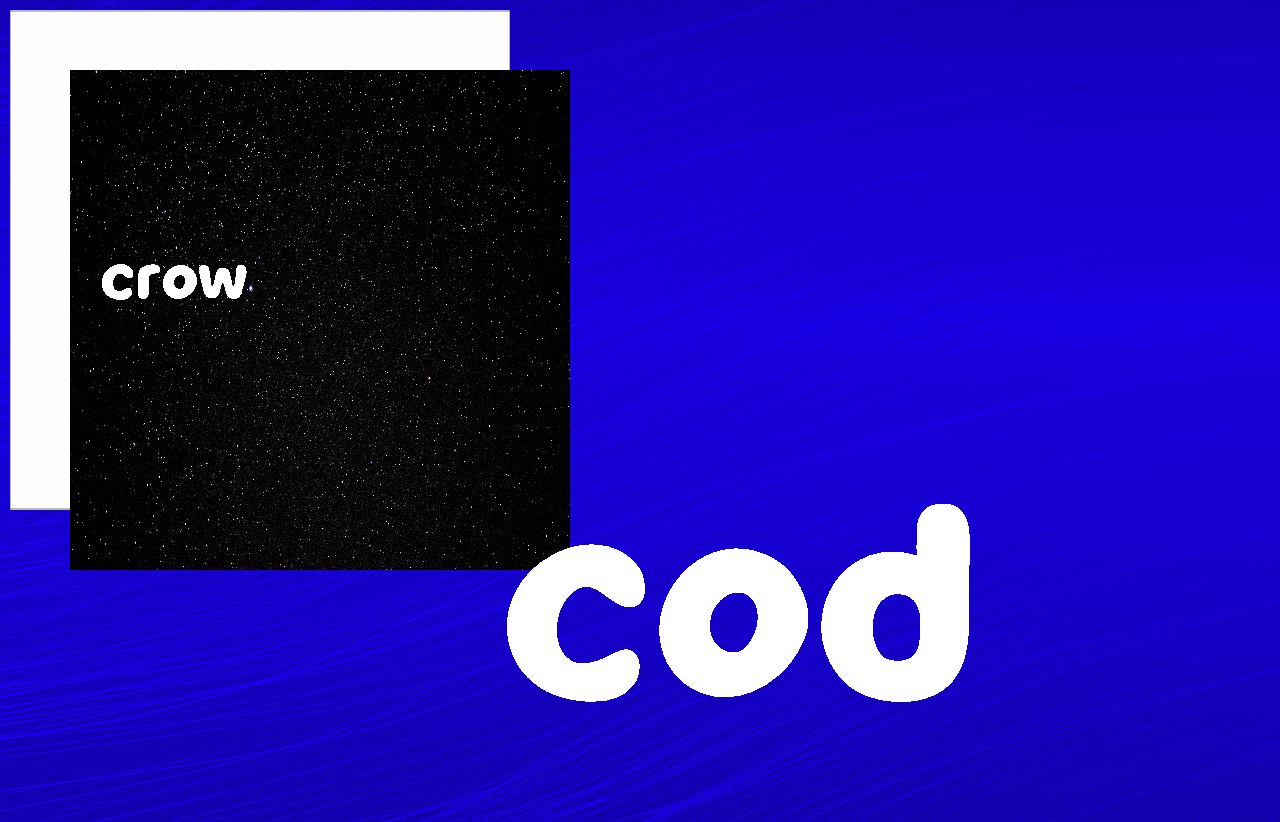
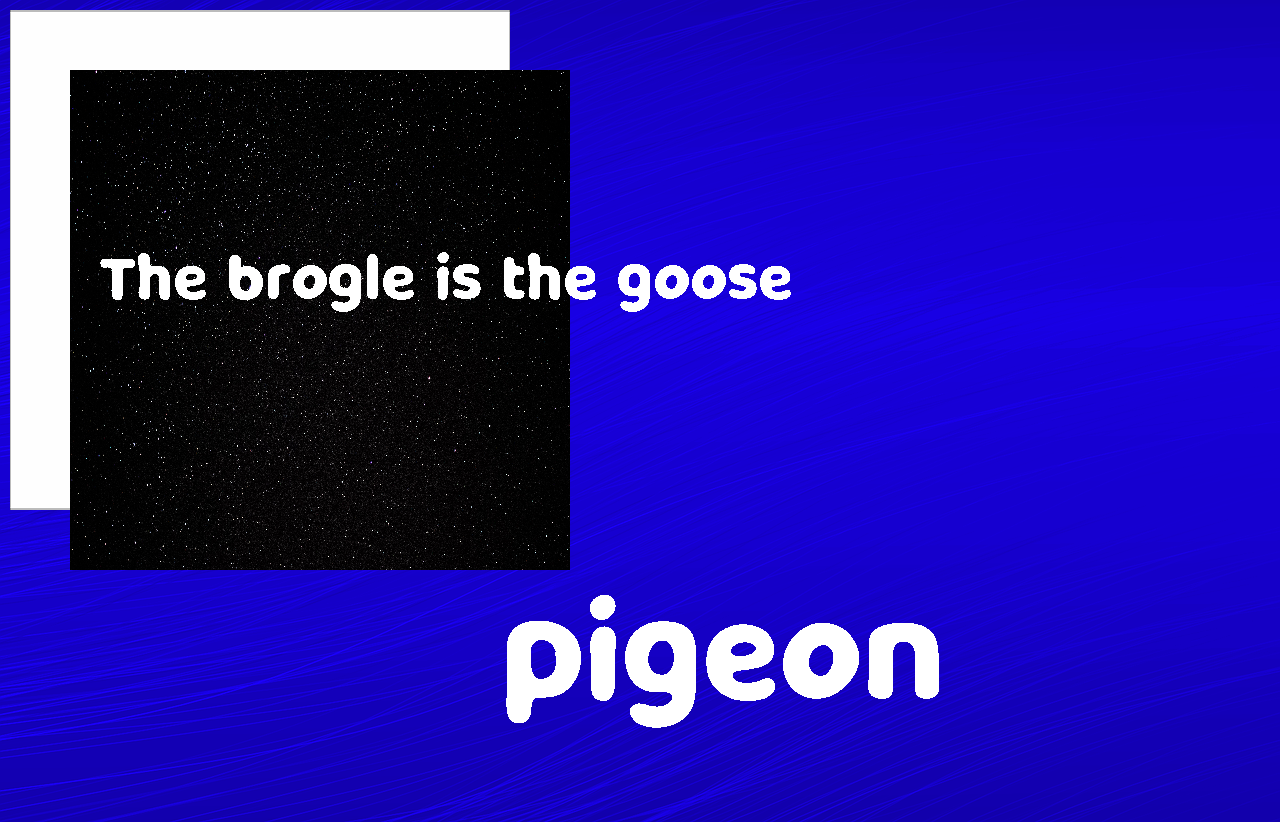
Added SentenceCreator

Changed region(s): [[0.375, 0.6083, 0.7812, 0.882], [0.0625, 0.3041, 0.625, 0.3954]]

diff --git a/src/TextIO/TextParser.java b/src/TextIO/TextParser.java
@@ -1,8 +1,10 @@
 package TextIO;
 
-import java.awt.*;
+import TextIO.TextClasses.*;
 import java.io.BufferedReader;
+import java.io.FileNotFoundException;
 import java.io.FileReader;
+import java.io.IOException;
 import java.util.ArrayList;
 import java.util.Arrays;
 import java.util.List;
@@ -13,23 +15,22 @@ import java.util.Random;
  * Returns a random word that is found in the dictionary
  */
 public class TextParser {
-    final String[] availableTypes = {"Nouns", "Verbs"};
+    final String[] availableTypes = {"Nouns", "Verbs", "Adjectives", "Conjunctions", "LinkingVerbs"};
+    BufferedReader bReader;
 
     /**
-     * Takes in a TextClass and Type
+     * Takes in a String and Type
      * Returns a random word that is found in the dictionary
      * @param textClass The class of an object, e.g. Furniture, Animal, Metal, etc. If none, use .None
      * @param type The type of the word, i.e. Noun, Verb or Name
      * @return Returns a String that is a random word
      */
-    public String RandomWord(TextClasses textClass, String type) {
+    public String RandomWord(String textClass, String type) {
         String randWord = "void";
 
-        // Check if there is a specified textClass
-        if(textClass == TextClasses.None) textClass = TextClasses.values()[new Random().nextInt(TextClasses.values().length - 1)];
+        if(textClass.equals("None")) textClass = RandomTextClass(type);
 
         try {
-
             // Get a list of the parse dictionary words
             List<String> lValues = ParseText(textClass, type);
             randWord = lValues.get(new Random().nextInt(lValues.size()));
@@ -48,18 +49,44 @@ public class TextParser {
      * @return Returns an filtered ArrayList of Strings containing all the words in the [type].list
      * @throws Exception Throws and Error if the provided type does not exist
      */
-    private List<String> ParseText(TextClasses textClass, String type) throws Exception {
+    private List<String> ParseText(String textClass, String type) throws Exception {
         if(!Arrays.asList(availableTypes).contains(type)) throw new IllegalArgumentException("String type is not legal : Must be [Nouns], [Verbs] or [Name]");
 
         // Initialize Variables
         List<String> content = new ArrayList<String>();
         List<String> fContent = new ArrayList<String>();
-        BufferedReader bReader = new BufferedReader(new FileReader("Resources/Text/" + type + ".list"));
+        bReader = new BufferedReader(new FileReader("Resources/Text/" + type + ".list"));
         String line;
 
         // Iterates through each line, filters the one matching the textClass and returns it
         while((line = bReader.readLine()) != null && fContent.size() == 0)
-            if(line.startsWith(textClass.toString())) fContent = Arrays.asList(line.split(textClass + ":: ")[1].split(","));
+            if(line.startsWith(textClass)) fContent = Arrays.asList(line.split(textClass + ":: ")[1].split(","));
         return fContent;
+    }
+
+    /**
+     * Takes in a String
+     * Create a new ArrayList and initializes the BufferedReader
+     * Uses the BufferedReader to append all the TextClasses to the ArrayList
+     * @param filetype The type of file to search
+     * @return Returns a String that is one of the textClasses in the filetype
+     */
+    private String RandomTextClass(String filetype) {
+        ArrayList<String> textClasses = new ArrayList<>();
+
+        try {
+            bReader = new BufferedReader(new FileReader("Resources/Text/" + filetype + ".list"));
+            String line;
+
+            // Iterates through each line of the file and adds the split lines;
+            while((line = bReader.readLine()) != null) {
+                textClasses.add(line.split(":: ")[0]);
+            }
+        } catch (IOException e) {
+            e.printStackTrace();
+        }
+
+        // Returns a random TextClass
+        return textClasses.get((int) (Math.random() * textClasses.size() - 1));
     }
 }

diff --git a/src/TextIO/SentenceCreator.java b/src/TextIO/SentenceCreator.java
@@ -1,0 +1,68 @@
+package TextIO;
+
+import java.io.BufferedReader;
+import java.io.FileReader;
+import java.io.IOException;
+import java.util.ArrayList;
+import java.util.Arrays;
+import java.util.List;
+
+/**
+ * The SentenceCreator class creates sentences based on a SentenceStructure
+ * The sentences are generated word by words, each being either part of a textClass or random
+ */
+public class SentenceCreator {
+    BufferedReader bReader;
+
+    /**
+     * Create a sentence
+     * Gets a random SentenceStructure from the list
+     * Appends an appropriate word to the sentence
+     * @return Returns a String that is the sentence
+     */
+    public String CreateSentence() {
+        TextParser tParser = new TextParser();
+        StringBuilder sentence = new StringBuilder();
+
+        try {
+
+            // Get a random SentenceStructure
+            String[] wordStruct = GetRandomSentenceStructure();
+
+            // Iterates through each of the structs
+            for(String word : wordStruct) {
+                if(word.startsWith("<W>:")) {
+                    sentence.append(word.split(":")[1]);
+                } else if(word.contains("::")) {
+                    sentence.append(tParser.RandomWord(word.split("::")[1], word.split("::")[0]));
+                } else {
+                    sentence.append(tParser.RandomWord("None", word));
+                }
+                sentence.append(" ");
+            }
+        } catch (IOException e) {
+            e.printStackTrace();
+        }
+        return sentence.toString();
+    }
+
+    /**
+     * Gets a random SentenceStructure
+     * Creates a BufferedReader and uses it to get a random structure from the list
+     * @return Returns a String that is the SentenceStructure
+     * @throws IOException If an error occurs during the file parsing, it will be thrown
+     */
+    public String[] GetRandomSentenceStructure() throws IOException {
+        ArrayList<String> wordStruct = new ArrayList<>();
+        bReader = new BufferedReader(new FileReader("Resources/Text/SentenceStructure.list"));
+        String line;
+
+        // Iterate through the file
+        while((line = bReader.readLine()) != null) {
+            wordStruct.add(line);
+        }
+
+        // Return a random SentenceStructure from the ArrayList
+        return wordStruct.get((int) (Math.random() * wordStruct.size() - 1)).split(", ");
+    }
+}

diff --git a/src/Main/Generator.java b/src/Main/Generator.java
@@ -1,7 +1,7 @@
 package Main;
 
 import ResourceIO.*;
-import TextIO.TextClasses;
+import TextIO.SentenceCreator;
 import TextIO.TextParser;
 import Util.Tuple;
 import java.awt.image.BufferedImage;
@@ -12,13 +12,15 @@ public class Generator {
         BufferedImage bg = imgLoad.LoadImage("t5.jpg");
         ImageEditor imgEdit = new ImageEditor(bg);
         TextParser tParser = new TextParser();
+        SentenceCreator sCreate = new SentenceCreator();
 
         try {
             imgEdit.AddImage(imgLoad.LoadImage("t2.jpg"), new Tuple<Integer, Integer>(500, 500), new Tuple<Integer, Integer>(10, 10));
-            //imgEdit.AddImage(imgLoad.LoadImage("t6.jpg"), new Tuple<Integer, Integer>(500, 500), new Tuple<Integer, Integer>(70, 70));
-            //imgEdit.AddText(bg, tParser.RandomWord(TextClasses.None, "Nouns"), new Tuple<String, Float>("mn.ttf", 60f), new Tuple<Integer, Integer>(100, 300));
-            //imgEdit.AddText(bg, tParser.RandomWord(TextClasses.None, "Nouns"), new Tuple<String, Float>("mn.ttf", 1000f), new Tuple<Integer, Integer>(500, 700));
+            imgEdit.AddImage(imgLoad.LoadImage("t6.jpg"), new Tuple<Integer, Integer>(500, 500), new Tuple<Integer, Integer>(70, 70));
+            imgEdit.AddText(bg, sCreate.CreateSentence(), new Tuple<String, Float>("mn.ttf", 60f), new Tuple<Integer, Integer>(100, 300));
+            imgEdit.AddText(bg, tParser.RandomWord("None", "Nouns"), new Tuple<String, Float>("mn.ttf", 1000f), new Tuple<Integer, Integer>(500, 700));
             imgLoad.SaveImage("Export.png", bg);
+
         } catch (Exception e) {
             e.printStackTrace();
         }

diff --git a/src/TextIO/TextClasses/NounClasses.java b/src/TextIO/TextClasses/NounClasses.java
@@ -1,0 +1,18 @@
+package TextIO.TextClasses;
+
+public enum NounClasses {
+    //Nouns
+    Bird,
+    Crustacean,
+    Carnivorous,
+    Fish,
+    Insect,
+    Moneky,
+    Snake,
+    None
+
+    //Verbs
+    //Adjectives
+    //Conjunctions
+    //
+}
